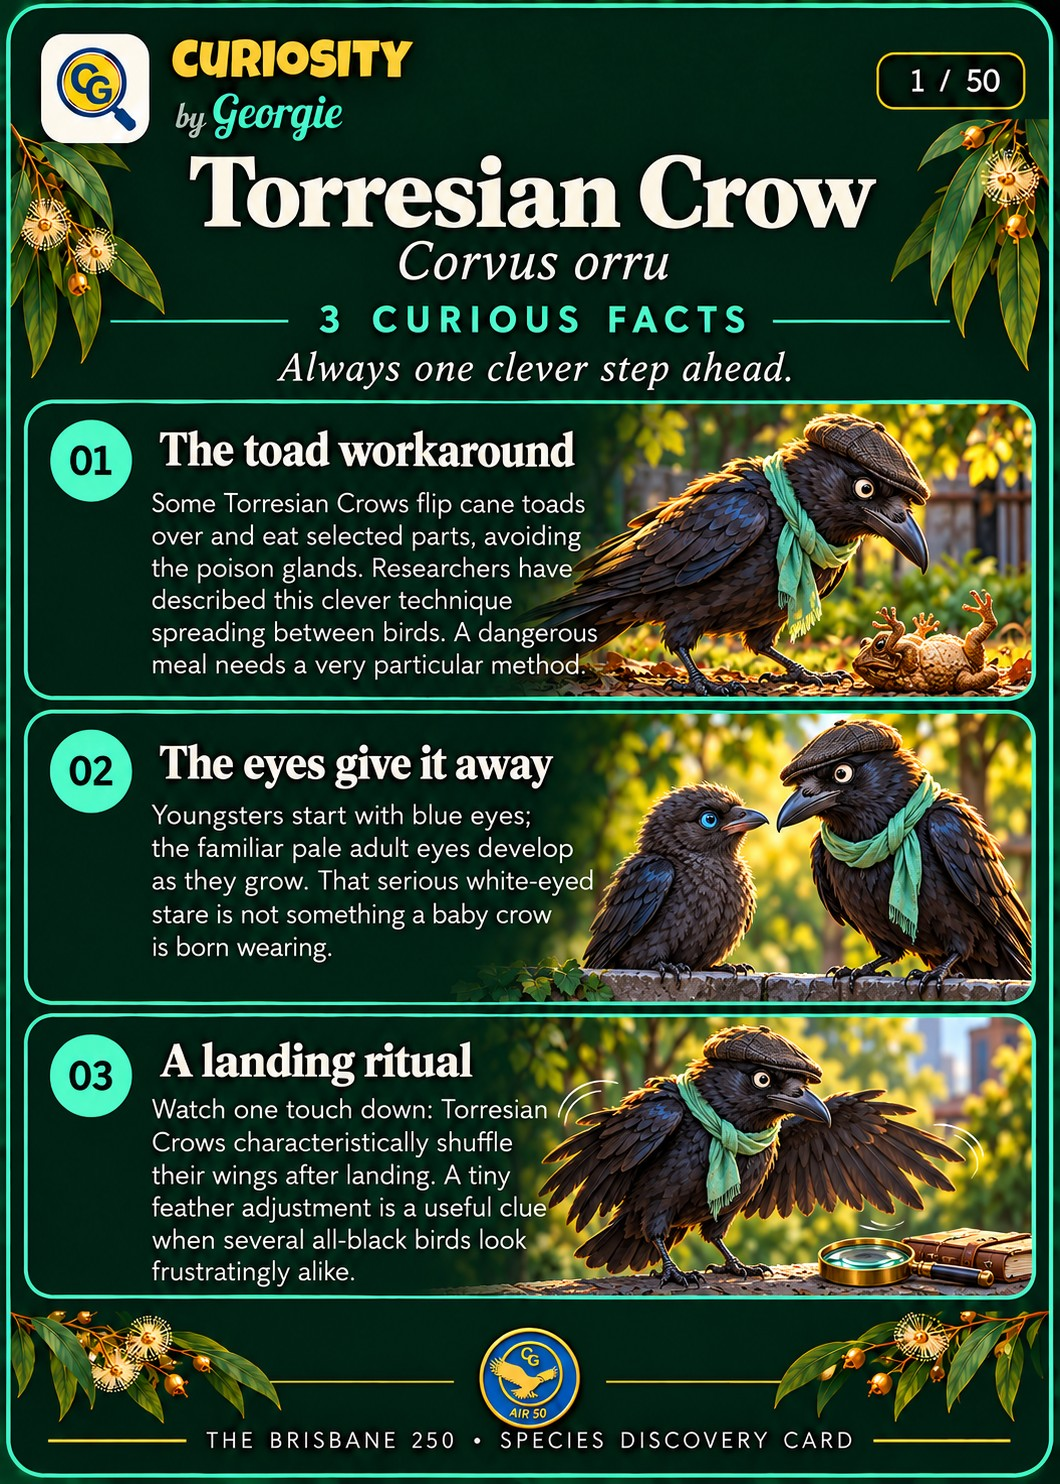
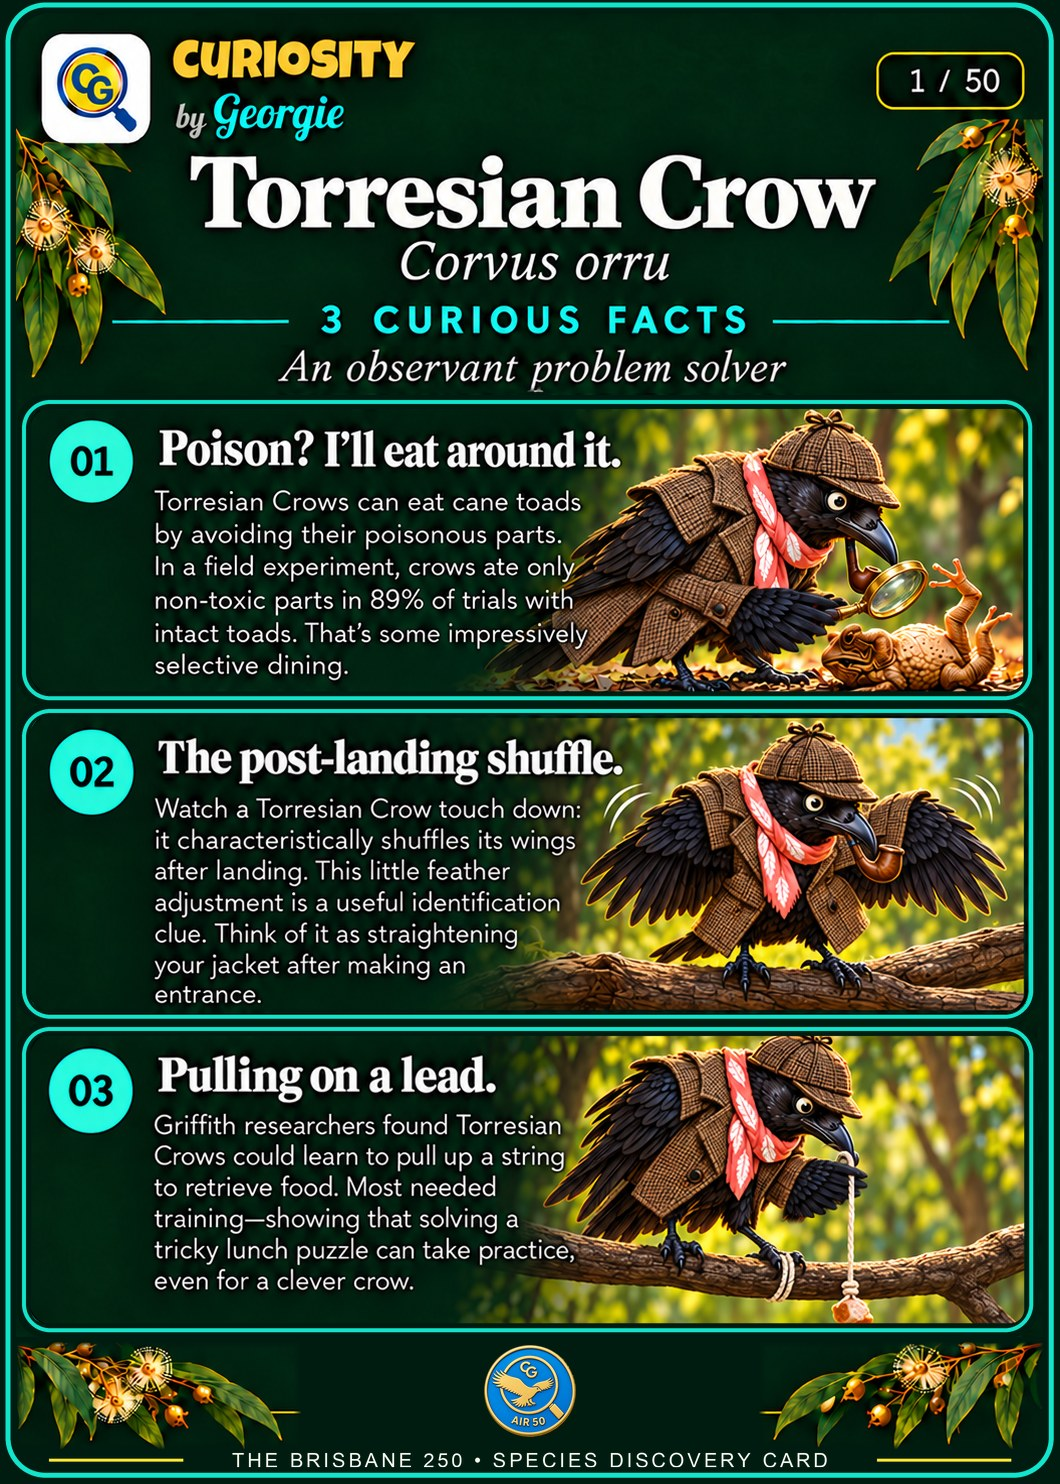
Add files via upload

diff --git a/assets/species-art.js b/assets/species-art.js
@@ -80,6 +80,11 @@ var SPECIES_ART = {
   },
 
   "willie wagtail": {
+    // George's own fully-designed trading card (front + back), species #8/50.
+    card: {
+      front: "assets/species-cards/willie-wagtail-front.jpg",
+      back: "assets/species-cards/willie-wagtail-back.jpg"
+    },
     svg:
       '<svg viewBox="0 0 100 100" role="img" aria-label="Willie Wagtail">' +
       '<g class="dex-bird">' +
@@ -99,6 +104,11 @@ var SPECIES_ART = {
   },
 
   "rainbow lorikeet": {
+    // George's own fully-designed trading card (front + back), species #3/50.
+    card: {
+      front: "assets/species-cards/rainbow-lorikeet-front.jpg",
+      back: "assets/species-cards/rainbow-lorikeet-back.jpg"
+    },
     svg:
       '<svg viewBox="0 0 100 100" role="img" aria-label="Rainbow Lorikeet">' +
       '<g class="dex-bird">' +
@@ -118,6 +128,11 @@ var SPECIES_ART = {
   },
 
   "australian magpie": {
+    // George's own fully-designed trading card (front + back), species #4/50.
+    card: {
+      front: "assets/species-cards/australian-magpie-front.jpg",
+      back: "assets/species-cards/australian-magpie-back.jpg"
+    },
     svg:
       '<svg viewBox="0 0 100 100" role="img" aria-label="Australian Magpie">' +
       '<g class="dex-bird">' +
@@ -137,6 +152,11 @@ var SPECIES_ART = {
   },
 
   "laughing kookaburra": {
+    // George's own fully-designed trading card (front + back), species #12/50.
+    card: {
+      front: "assets/species-cards/laughing-kookaburra-front.jpg",
+      back: "assets/species-cards/laughing-kookaburra-back.jpg"
+    },
     svg:
       '<svg viewBox="0 0 100 100" role="img" aria-label="Laughing Kookaburra">' +
       '<g class="dex-bird">' +
@@ -222,6 +242,11 @@ var SPECIES_ART = {
   // and facts for these are still coming, so each entry falls back to the Dex's
   // "coming soon" note until those are added, same as the mechanic above describes.
   "noisy miner": {
+    // George's own fully-designed trading card (front + back), species #2/50.
+    card: {
+      front: "assets/species-cards/noisy-miner-front.jpg",
+      back: "assets/species-cards/noisy-miner-back.jpg"
+    },
     svg:
       '<svg viewBox="0 0 100 100" role="img" aria-label="Noisy Miner">' +
       '<g class="dex-bird">' +
@@ -229,6 +254,11 @@ var SPECIES_ART = {
       "</g></svg>"
   },
   "welcome swallow": {
+    // George's own fully-designed trading card (front + back), species #5/50.
+    card: {
+      front: "assets/species-cards/welcome-swallow-front.jpg",
+      back: "assets/species-cards/welcome-swallow-back.jpg"
+    },
     svg:
       '<svg viewBox="0 0 100 100" role="img" aria-label="Welcome Swallow">' +
       '<g class="dex-bird">' +
@@ -236,6 +266,11 @@ var SPECIES_ART = {
       "</g></svg>"
   },
   "australian white ibis": {
+    // George's own fully-designed trading card (front + back), species #6/50.
+    card: {
+      front: "assets/species-cards/australian-white-ibis-front.jpg",
+      back: "assets/species-cards/australian-white-ibis-back.jpg"
+    },
     svg:
       '<svg viewBox="0 0 100 100" role="img" aria-label="Australian White Ibis">' +
       '<g class="dex-bird">' +
@@ -243,6 +278,11 @@ var SPECIES_ART = {
       "</g></svg>"
   },
   "magpie-lark": {
+    // George's own fully-designed trading card (front + back), species #7/50.
+    card: {
+      front: "assets/species-cards/magpie-lark-front.jpg",
+      back: "assets/species-cards/magpie-lark-back.jpg"
+    },
     svg:
       '<svg viewBox="0 0 100 100" role="img" aria-label="Magpie-lark">' +
       '<g class="dex-bird">' +
@@ -250,6 +290,11 @@ var SPECIES_ART = {
       "</g></svg>"
   },
   "grey butcherbird": {
+    // George's own fully-designed trading card (front + back), species #9/50.
+    card: {
+      front: "assets/species-cards/grey-butcherbird-front.jpg",
+      back: "assets/species-cards/grey-butcherbird-back.jpg"
+    },
     svg:
       '<svg viewBox="0 0 100 100" role="img" aria-label="Grey Butcherbird">' +
       '<g class="dex-bird">' +
@@ -257,6 +302,11 @@ var SPECIES_ART = {
       "</g></svg>"
   },
   "masked lapwing": {
+    // George's own fully-designed trading card (front + back), species #10/50.
+    card: {
+      front: "assets/species-cards/masked-lapwing-front.jpg",
+      back: "assets/species-cards/masked-lapwing-back.jpg"
+    },
     svg:
       '<svg viewBox="0 0 100 100" role="img" aria-label="Masked Lapwing">' +
       '<g class="dex-bird">' +
@@ -264,6 +314,11 @@ var SPECIES_ART = {
       "</g></svg>"
   },
   "pied butcherbird": {
+    // George's own fully-designed trading card (front + back), species #11/50.
+    card: {
+      front: "assets/species-cards/pied-butcherbird-front.jpg",
+      back: "assets/species-cards/pied-butcherbird-back.jpg"
+    },
     svg:
       '<svg viewBox="0 0 100 100" role="img" aria-label="Pied Butcherbird">' +
       '<g class="dex-bird">' +
@@ -271,6 +326,11 @@ var SPECIES_ART = {
       "</g></svg>"
   },
   "australasian figbird": {
+    // George's own fully-designed trading card (front + back), species #13/50.
+    card: {
+      front: "assets/species-cards/australasian-figbird-front.jpg",
+      back: "assets/species-cards/australasian-figbird-back.jpg"
+    },
     svg:
       '<svg viewBox="0 0 100 100" role="img" aria-label="Australasian Figbird">' +
       '<g class="dex-bird">' +
@@ -278,6 +338,11 @@ var SPECIES_ART = {
       "</g></svg>"
   },
   "brown honeyeater": {
+    // George's own fully-designed trading card (front + back), species #14/50.
+    card: {
+      front: "assets/species-cards/brown-honeyeater-front.jpg",
+      back: "assets/species-cards/brown-honeyeater-back.jpg"
+    },
     svg:
       '<svg viewBox="0 0 100 100" role="img" aria-label="Brown Honeyeater">' +
       '<g class="dex-bird">' +
@@ -285,6 +350,11 @@ var SPECIES_ART = {
       "</g></svg>"
   },
   "pied currawong": {
+    // George's own fully-designed trading card (front + back), species #15/50.
+    card: {
+      front: "assets/species-cards/pied-currawong-front.jpg",
+      back: "assets/species-cards/pied-currawong-back.jpg"
+    },
     svg:
       '<svg viewBox="0 0 100 100" role="img" aria-label="Pied Currawong">' +
       '<g class="dex-bird">' +
